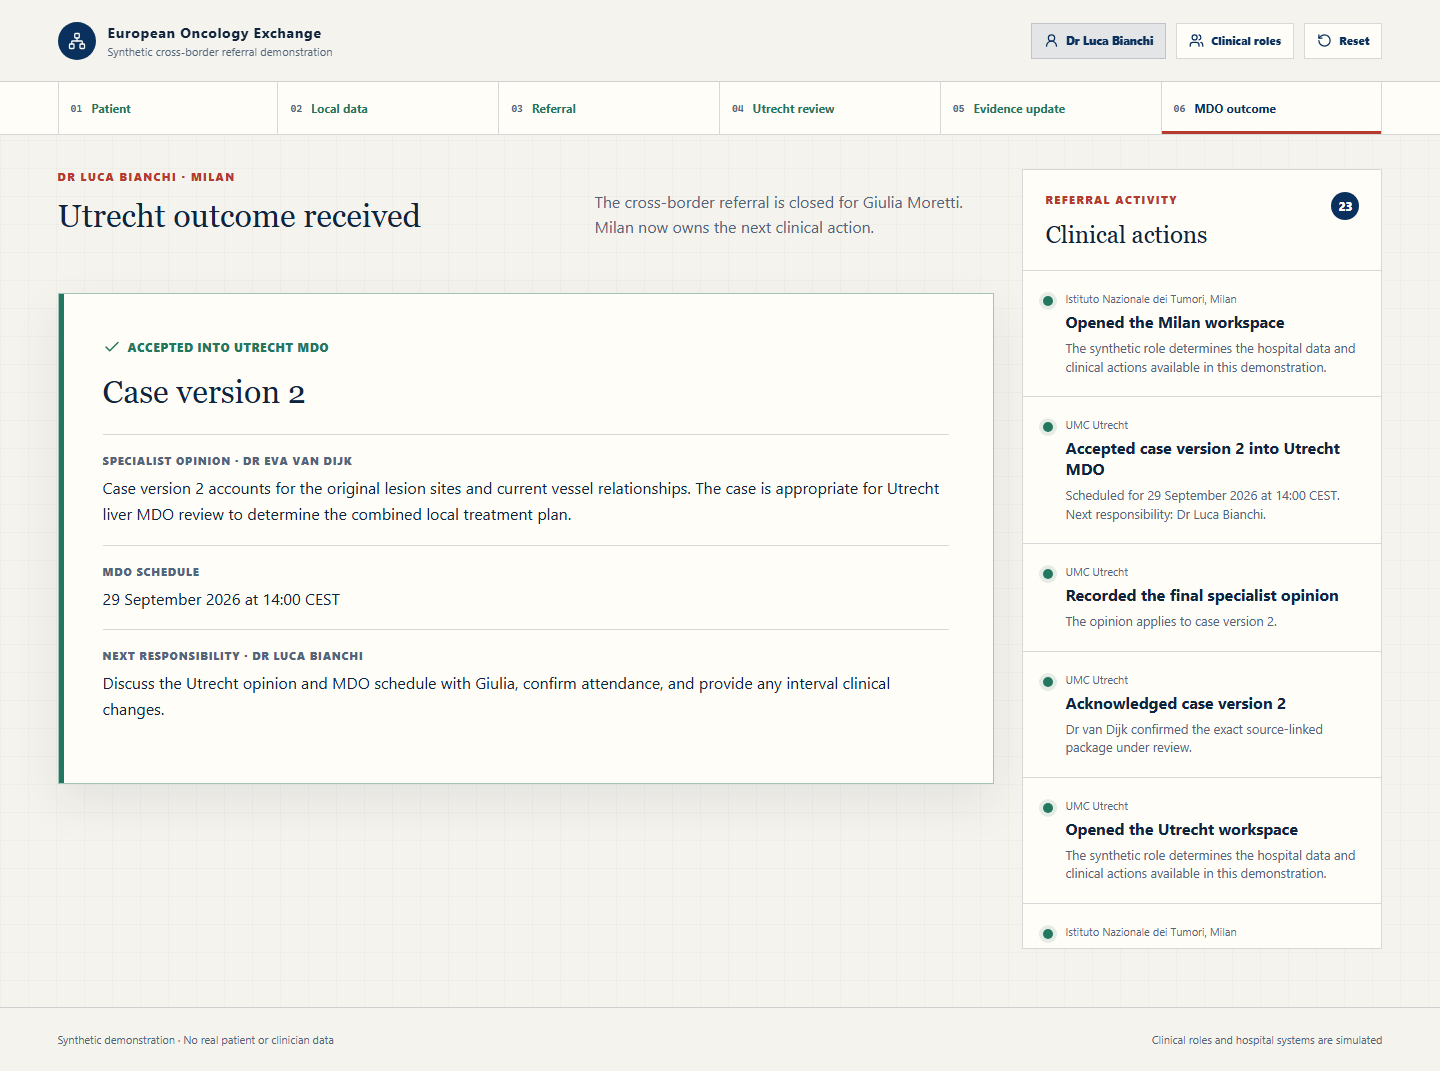
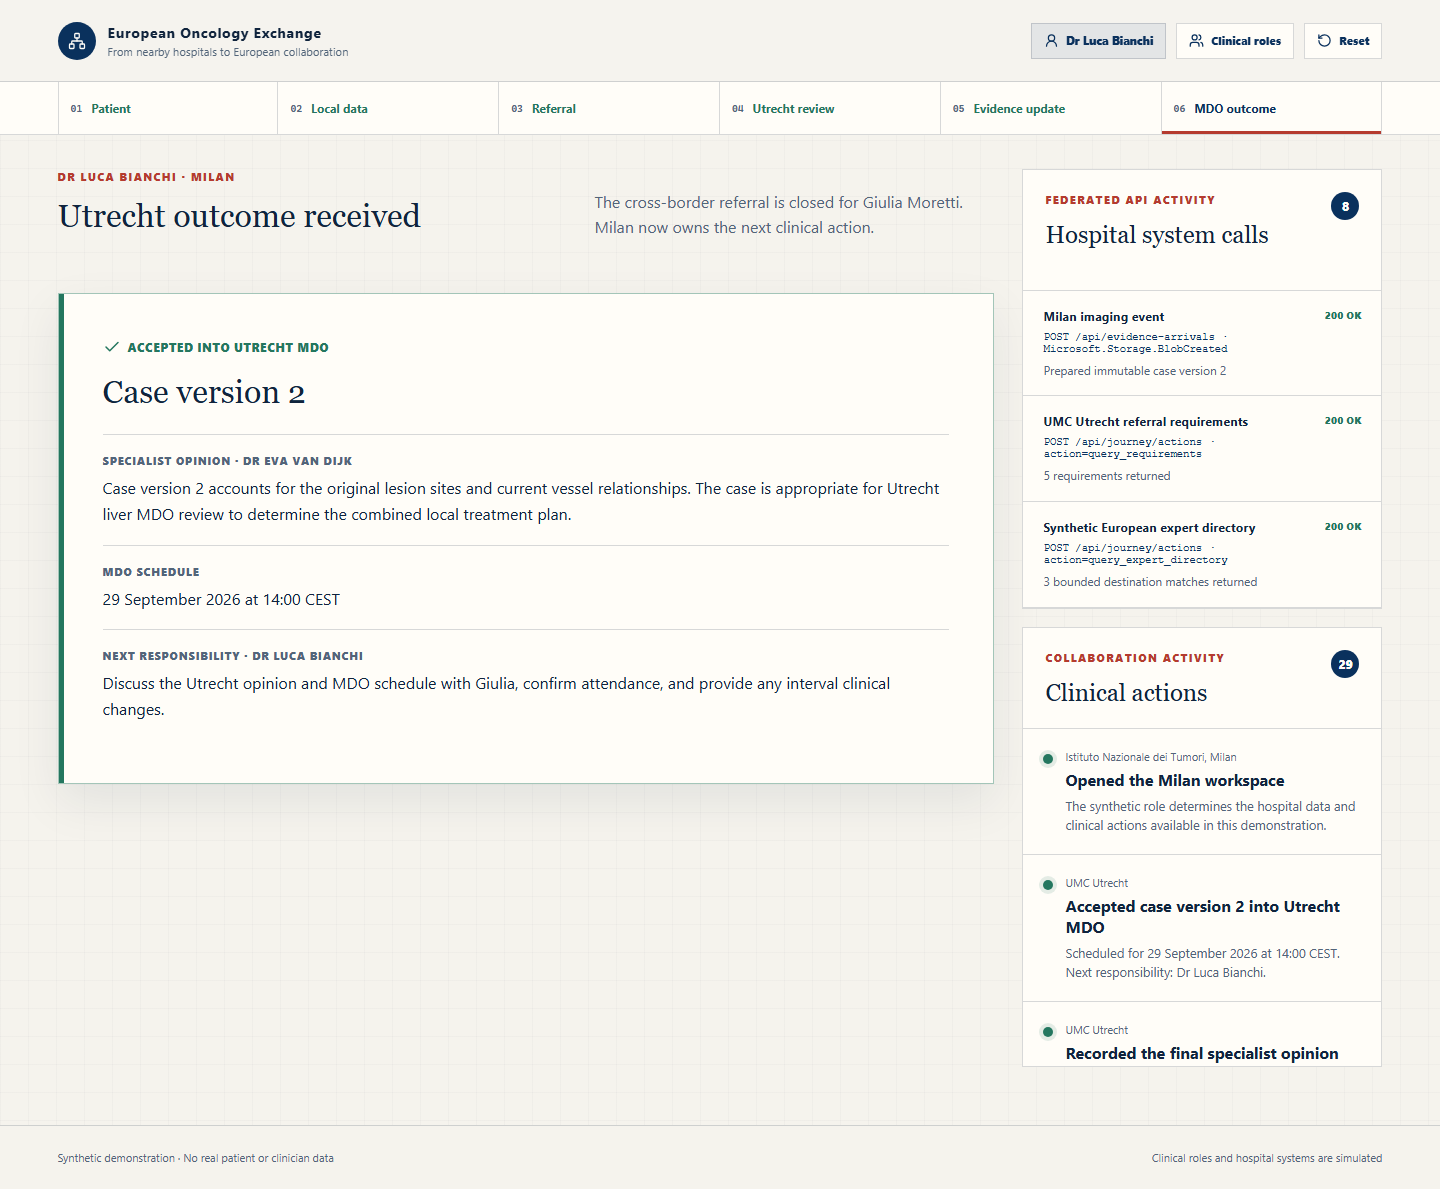
Record live local-to-European deployment
Copilot-Session: 4f6a1c83-f0ff-47cc-892b-d9c9d4d22c84

diff --git a/frontend/tests/demo.spec.ts b/frontend/tests/demo.spec.ts
@@ -30,8 +30,11 @@ async function completeRegionalOpening(
   await page.getByRole('button', { name: 'Approve regional sharing' }).click()
   await expect(page.getByText('Regional exchange complete')).toBeVisible()
   if (projectName) {
+    const prefix = process.env.DEMO_ACCESS_CODE
+      ? 'live-regional-proof'
+      : 'regional-proof'
     await page.screenshot({
-      path: `../docs/demo/evidence/regional-proof-${projectName}.png`,
+      path: `../docs/demo/evidence/${prefix}-${projectName}.png`,
       fullPage: true,
     })
   }
@@ -40,8 +43,9 @@ async function completeRegionalOpening(
     page.getByRole('heading', { name: 'Geography changes. The trust rules do not.' }),
   ).toBeVisible()
   if (projectName) {
+    const prefix = process.env.DEMO_ACCESS_CODE ? 'live-scale-reveal' : 'scale-reveal'
     await page.screenshot({
-      path: `../docs/demo/evidence/scale-reveal-${projectName}.png`,
+      path: `../docs/demo/evidence/${prefix}-${projectName}.png`,
       fullPage: true,
     })
   }

diff --git a/docs/demo/azure-deployment.md b/docs/demo/azure-deployment.md
@@ -8,8 +8,8 @@
 ## Reviewed deployment
 
 - Active image:
-  `ocdpscufetxrykg6.azurecr.io/oncology-collab-demo:bef999a`
-- Active revision: `oncology-collab-demo--0000010`
+  `ocdpscufetxrykg6.azurecr.io/oncology-collab-demo:5b051ba`
+- Active revision: `oncology-collab-demo--0000012`
 - Revision mode: single
 - Preserved expiry: `2026-10-07`
 - Preserved access-code configuration; the code is not recorded in this
@@ -33,17 +33,19 @@ The cookie-aware verifier passed:
   "status": "pass",
   "mode": "azure-synthetic-rehearsal",
   "protected_access": "pass",
-  "federated_sources": 3,
+  "regional_sources": 2,
+  "international_sources": 3,
   "prepared_versions": [1, 2],
   "event_grid_event": "azure-event-grid-imaging-001",
   "mdo_case_version": 2,
-  "timeline_events": 23,
+  "timeline_events": 29,
   "final_state": "clean"
 }
 ```
 
-Live Playwright then passed four checks against the protected URL:
+Live Playwright then passed six checks against the protected URL:
 
+- persistent regional and international API activity at desktop and Pixel 7;
 - complete desktop closed-loop referral;
 - desktop keyboard and axe checks;
 - complete Pixel 7 closed-loop referral;
@@ -56,6 +58,10 @@ the workflow advances beyond the local-data screen.
 
 The live screenshots are:
 
+- [`evidence/live-regional-proof-desktop-chromium.png`](evidence/live-regional-proof-desktop-chromium.png)
+- [`evidence/live-regional-proof-mobile-chromium.png`](evidence/live-regional-proof-mobile-chromium.png)
+- [`evidence/live-scale-reveal-desktop-chromium.png`](evidence/live-scale-reveal-desktop-chromium.png)
+- [`evidence/live-scale-reveal-mobile-chromium.png`](evidence/live-scale-reveal-mobile-chromium.png)
 - [`evidence/live-closed-loop-desktop-chromium.png`](evidence/live-closed-loop-desktop-chromium.png)
 - [`evidence/live-closed-loop-mobile-chromium.png`](evidence/live-closed-loop-mobile-chromium.png)
 
@@ -63,7 +69,7 @@ The live screenshots are:
 
 The previous stable image remains in ACR:
 
-`ocdpscufetxrykg6.azurecr.io/oncology-collab-demo:7e5a942`
+`ocdpscufetxrykg6.azurecr.io/oncology-collab-demo:bef999a`
 
 Rollback does not require an infrastructure change:
 
@@ -71,7 +77,7 @@ Rollback does not require an infrastructure change:
 az containerapp update `
   --resource-group oncology-collab-demo-platform-rg `
   --name oncology-collab-demo `
-  --image ocdpscufetxrykg6.azurecr.io/oncology-collab-demo:7e5a942
+  --image ocdpscufetxrykg6.azurecr.io/oncology-collab-demo:bef999a
 ```
 
 After rollback, rerun the protected health and access checks appropriate to that

diff --git a/docs/implementation/plan.md b/docs/implementation/plan.md
@@ -1,6 +1,6 @@
 # Implementation plan: European oncology collaboration demo
 
-**Status:** Closed-loop referral complete; local-to-European opening in progress
+**Status:** Local-to-European collaboration journey complete and live
 **Date:** 2026-09-24
 **Cloud deployment:** The closed-loop referral is live on the approved private
 Azure baseline. The local-first opening reuses that baseline without new
@@ -12,7 +12,7 @@ services or trust-boundary changes.
 
 #### INC-015: Regional proof and European scale reveal
 
-**Status:** Planned
+**Status:** Complete
 
 **Depends on:** INC-014.
 
@@ -44,6 +44,20 @@ to the existing Milan-to-Utrecht international referral.
 - Reset and refresh preserve correct local/international phase state.
 - Desktop/mobile, keyboard, axe, backend, frontend, and protected-live checks
   pass without adding Azure services.
+
+**Validation evidence:**
+
+- Persisted regional state, ordering, restore, reset, and international-entry
+  guards pass in the backend suite.
+- Desktop and mobile rehearsals complete the regional exchange, scale reveal,
+  international closed loop, keyboard path, and axe checks.
+- Container App image `oncology-collab-demo:5b051ba` is active in revision
+  `oncology-collab-demo--0000012`.
+- The protected verifier passed two regional sources, three international
+  sources, immutable versions 1 and 2, 29 persisted timeline events, refresh
+  restore, MDO closure, and final reset.
+- The existing access code, managed identity, storage, Event Grid, private
+  endpoints, monitoring, budget, and expiry were preserved.
 
 ### Outcome
 

diff --git a/docs/demo/presenter-guide.md b/docs/demo/presenter-guide.md
@@ -72,6 +72,10 @@ claim is live.
 | Regional proof mobile | [`evidence/regional-proof-mobile-chromium.png`](evidence/regional-proof-mobile-chromium.png) |
 | European scale reveal desktop | [`evidence/scale-reveal-desktop-chromium.png`](evidence/scale-reveal-desktop-chromium.png) |
 | European scale reveal mobile | [`evidence/scale-reveal-mobile-chromium.png`](evidence/scale-reveal-mobile-chromium.png) |
+| Live regional proof desktop | [`evidence/live-regional-proof-desktop-chromium.png`](evidence/live-regional-proof-desktop-chromium.png) |
+| Live regional proof mobile | [`evidence/live-regional-proof-mobile-chromium.png`](evidence/live-regional-proof-mobile-chromium.png) |
+| Live European scale reveal desktop | [`evidence/live-scale-reveal-desktop-chromium.png`](evidence/live-scale-reveal-desktop-chromium.png) |
+| Live European scale reveal mobile | [`evidence/live-scale-reveal-mobile-chromium.png`](evidence/live-scale-reveal-mobile-chromium.png) |
 | Closed-loop desktop outcome | [`evidence/closed-loop-desktop-chromium.png`](evidence/closed-loop-desktop-chromium.png) |
 | Closed-loop mobile outcome | [`evidence/closed-loop-mobile-chromium.png`](evidence/closed-loop-mobile-chromium.png) |
 | Live Azure desktop outcome | [`evidence/live-closed-loop-desktop-chromium.png`](evidence/live-closed-loop-desktop-chromium.png) |
